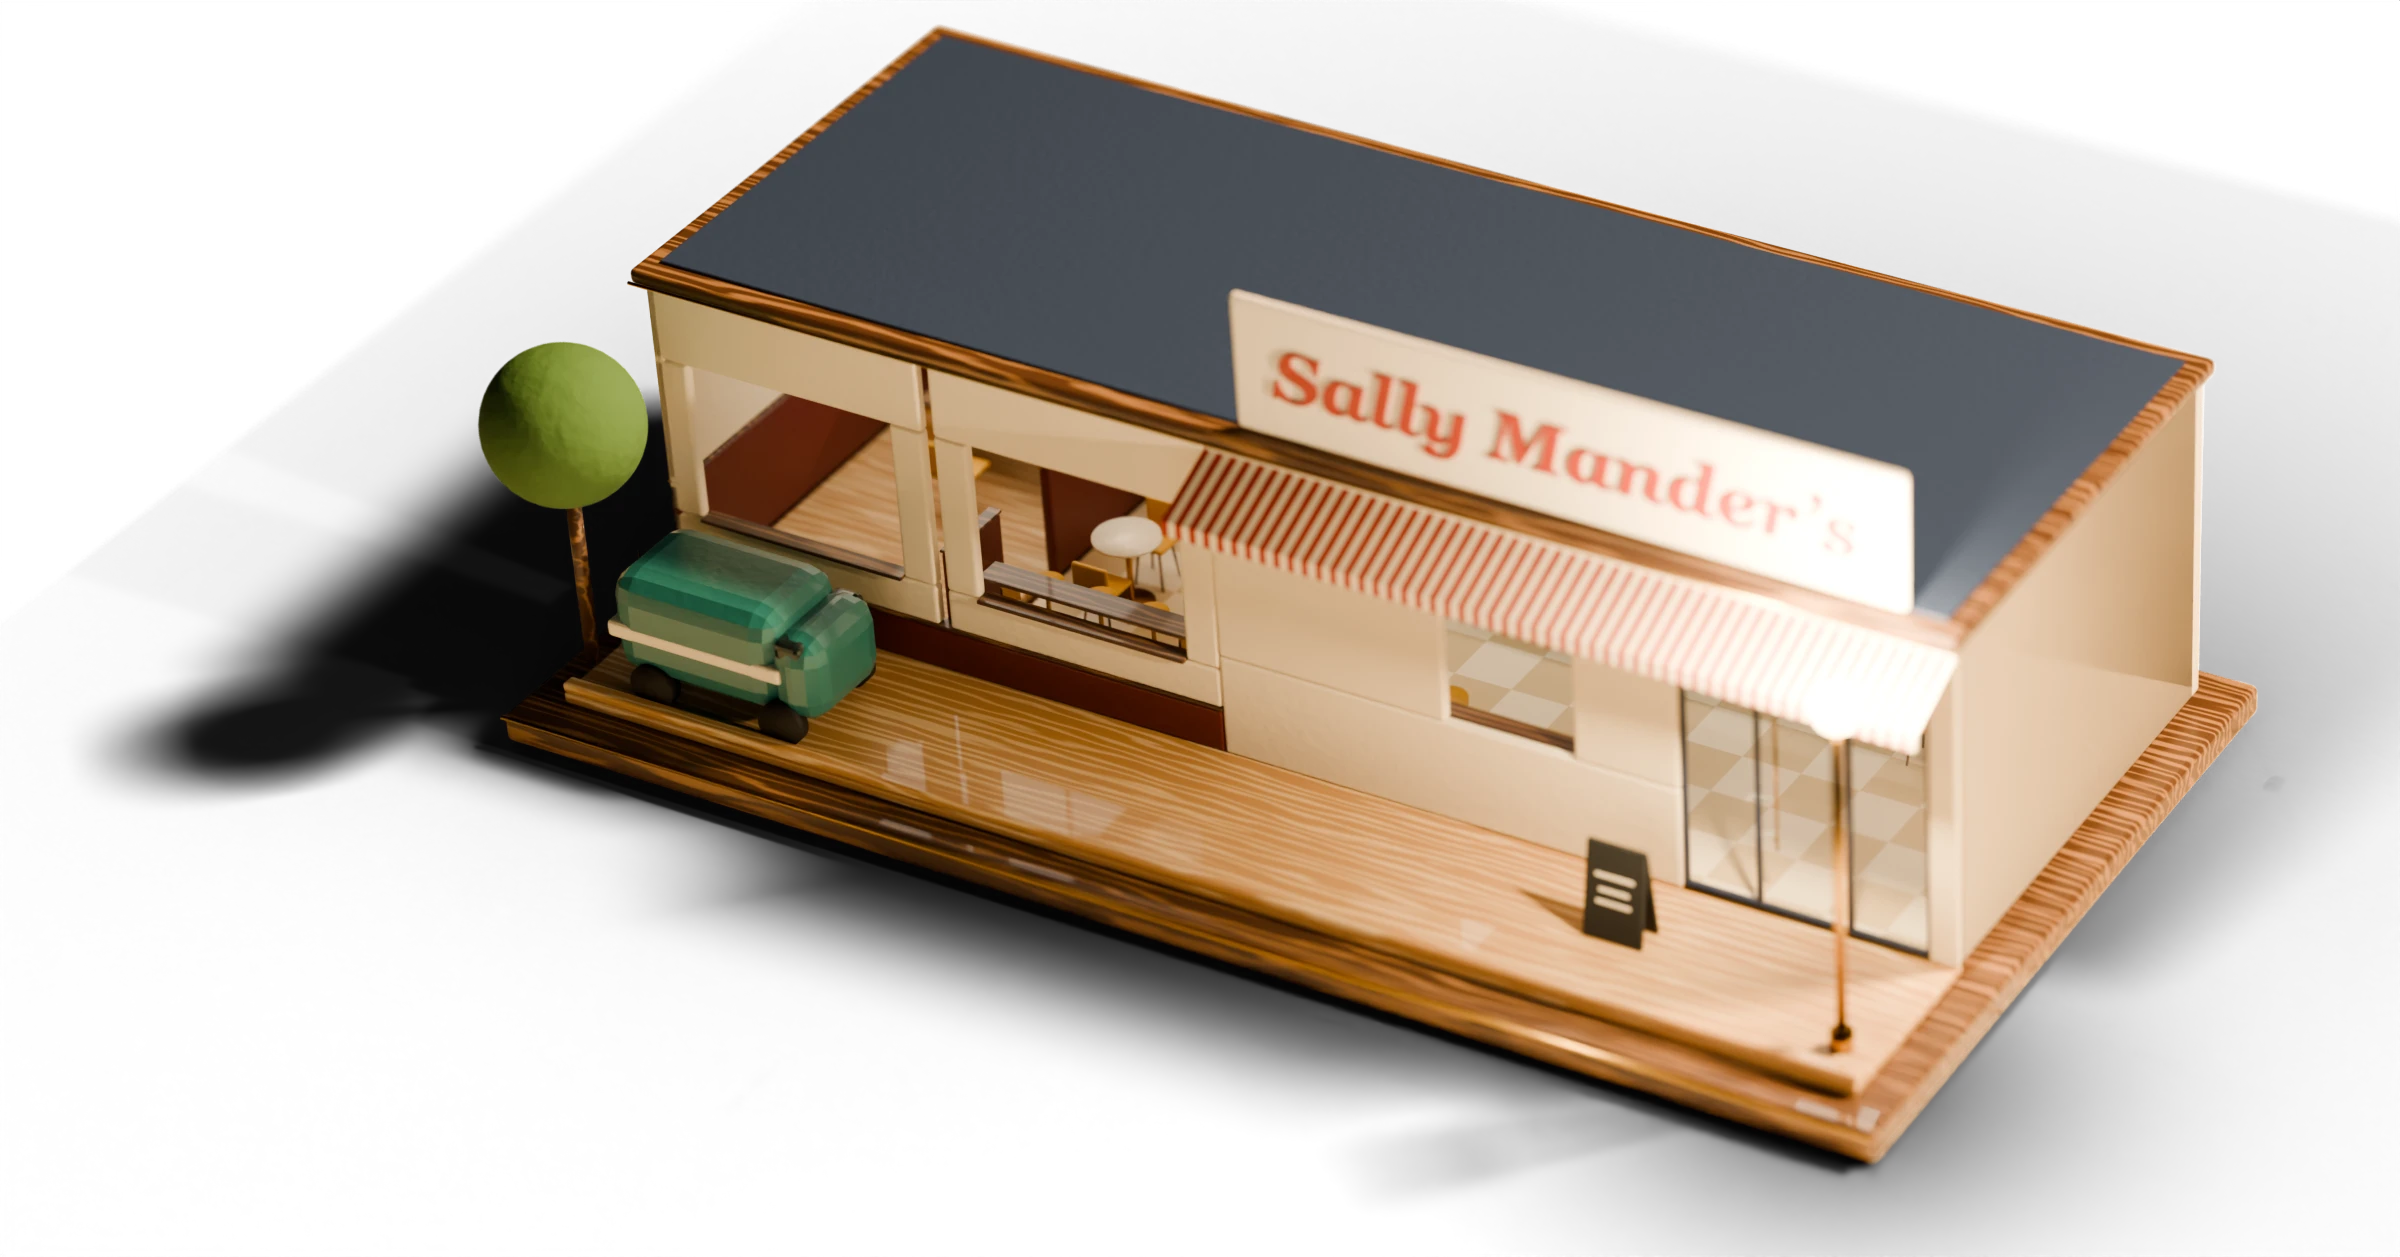
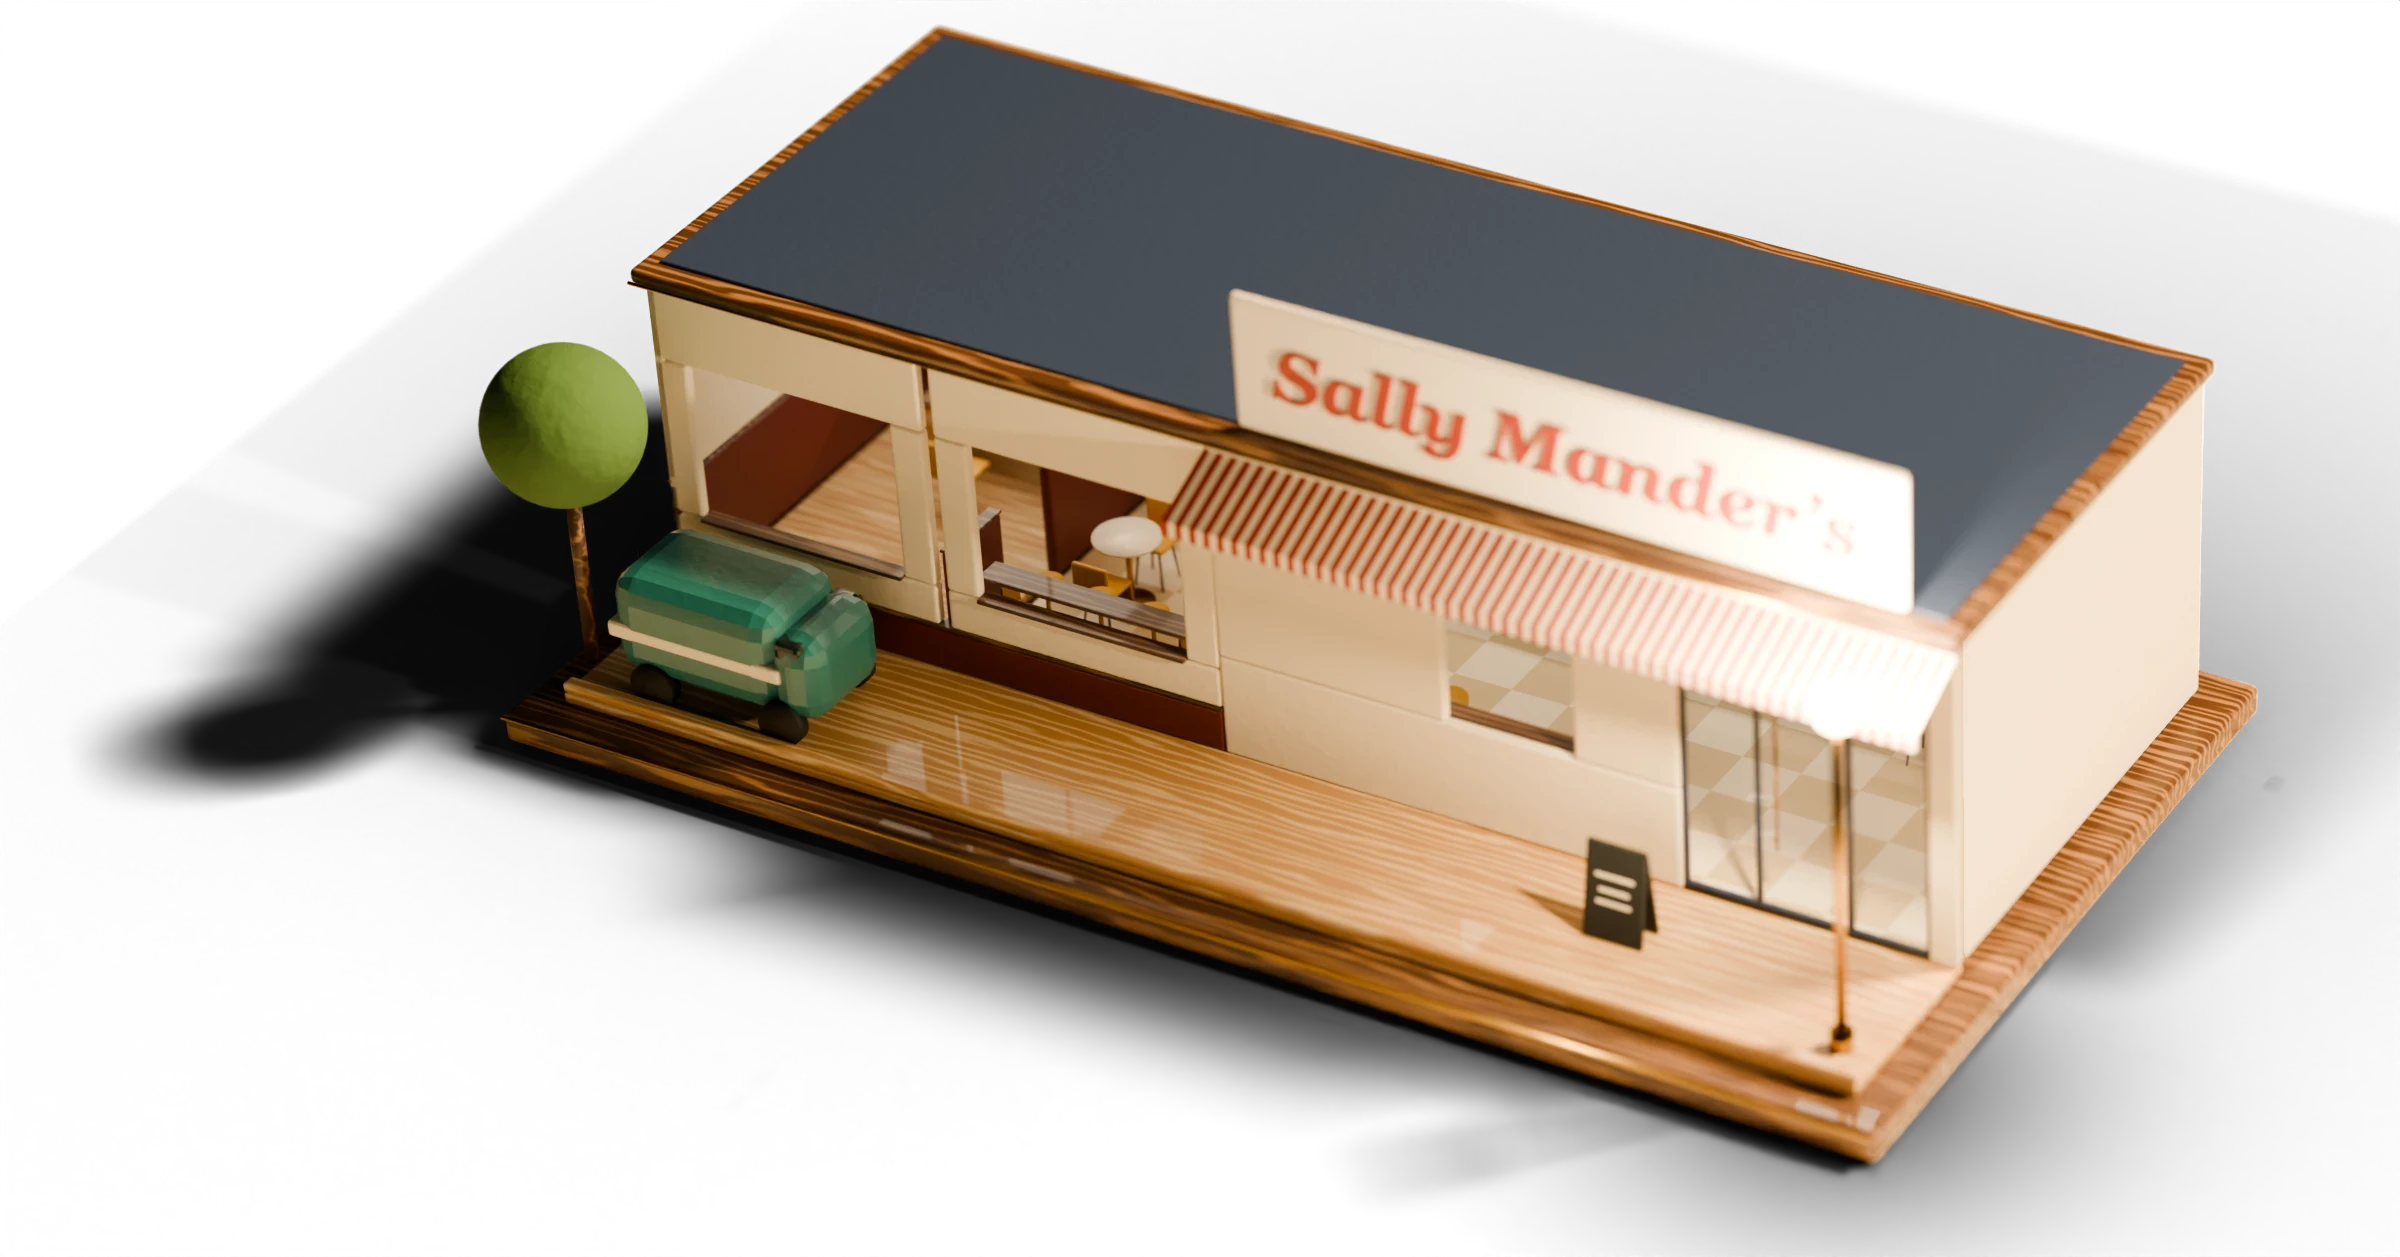
Café: clear the stripes on the end wall
room.py's wall-w sat exactly inside toy.py's shell-west, face on face, so the two creams fought in
the render: stripes across the end wall in the roof-on frame, and a half see-through, striped end
wall on the lifting roof layer. toy.py now tucks wall-w 2 cm inside. hero-closed.webp (the same
file as the portfolio's tq-closed.webp) and hero-shell.webp have the wall's region re-rendered and
laid in; the rest of each frame is unchanged, since a full re-render still needs the Georgia font.

Changed region(s): [[0.8125, 0.3103, 0.9375, 0.7446]]

diff --git a/art/cutaway/toy.py b/art/cutaway/toy.py
@@ -361,6 +361,12 @@ for nm, x0, x1 in (("dining", DX0, DX1), ("office", OX0 + T, OX1 + T)):
         shell_box(nm + "-pier", px0, px1, N0, N1, FLOOR + 0.9, FLOOR + 2.55)
     box("shell-" + nm + "-sill-cap", x0 + 0.35, x1 - 0.35, N0 - 0.02, N1 + 0.05, FLOOR + 0.88, FLOOR + 0.92, WALNUT)
 shell_box("east", OX1, OX1 + T, YS - T, N1, FLOOR + 1.23, RZ)
+# The café's own end wall (room.py's wall-w) sits exactly inside the shell's west wall, face on face,
+# and the two creams fought in the render as stripes across the end of the set. Tuck it a centimetre
+# inside on both sides, so the roof-on frame shows only the shell and the roof-off one only the wall.
+_ww = bpy.data.objects["wall-w"]
+for v in _ww.data.vertices:
+    v.co.x *= (T - 0.02) / T
 # the awning over the café's glass, and the sign board on the roof
 me = bpy.data.meshes.new("shell-awning")
 ay0, ay1, az0, az1 = N1, N1 + 0.75, DOOR[2] + 0.2, DOOR[2] - 0.12
